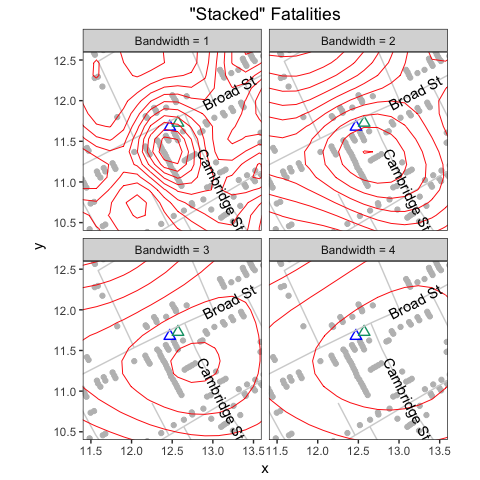
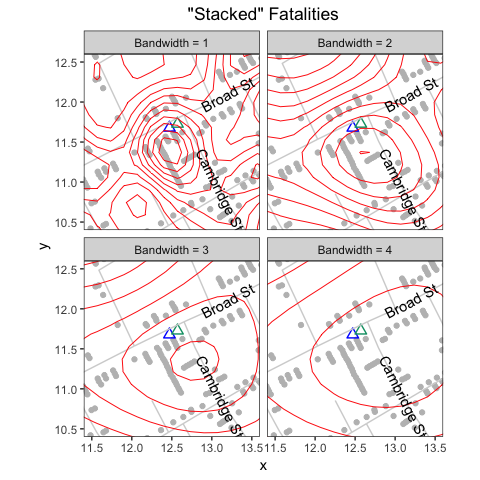
copyedit "unstacking bars"

Changed region(s): [[0.0938, 0.0, 0.9375, 1.0], [0.3125, 0.5625, 0.3438, 0.5938], [0.0625, 0.5, 0.0938, 0.5312]]

diff --git a/docs/unstacking.bars.md b/docs/unstacking.bars.md
@@ -1,7 +1,7 @@
 "Unstacking" Bars
 ================
 lindbrook
-2018-06-26
+2018-07-10
 
 Overview
 --------
@@ -116,7 +116,7 @@ With *fatalities.unstacked*, the contours are "tighter" (reflecting lesser uncer
 
 The main roadblock to "unstacking" is that there is no notion of an "address" in the data: bars are merely points and streets are merely line segments.[4] Nothing links a point to a segments. And nothing connects one bar in a stack to another bar. All elements exist independently of one another. The only reason why the map "works" is that the fatalities and roads data have overlapping x-y coordinates.
 
-To "unstack" the data, we need to match each bar to a specific road (segment) and to a specific stack. To accomplish these tasks, I use two types of classification. For those interested, the details are found in the accompanying [lab notes](https://github.com/lindbrook/cholera/blob/master/docs/unstacking.bars.notes.md) found in this package's GitHub repository.
+To "unstack" the data, we need to match each bar to a specific road (segment) and to a specific stack. To accomplish these tasks, I use two types of classification. For those interested, the details are found in this vignette's lab notes, which are available [online](https://github.com/lindbrook/cholera/blob/master/docs/unstacking.bars.notes.md) and in the package's GitHub repository.
 
 [1] The map was originally published in Snow's 1855 book "On The Mode Of Communication Of Cholera", which was reprinted as John Snow et. al., 1936. *Snow on Cholera: Being a Reprint of Two Papers*. New York: The Common Wealth Fund. You can also find the map online (a high resolution version is available at <http://www.ph.ucla.edu/epi/snow/highressnowmap.html>) and in many books, including Edward Tufte's 1997 "Visual Explanations: Images and Quantities, Evidence and Narrative".
 
